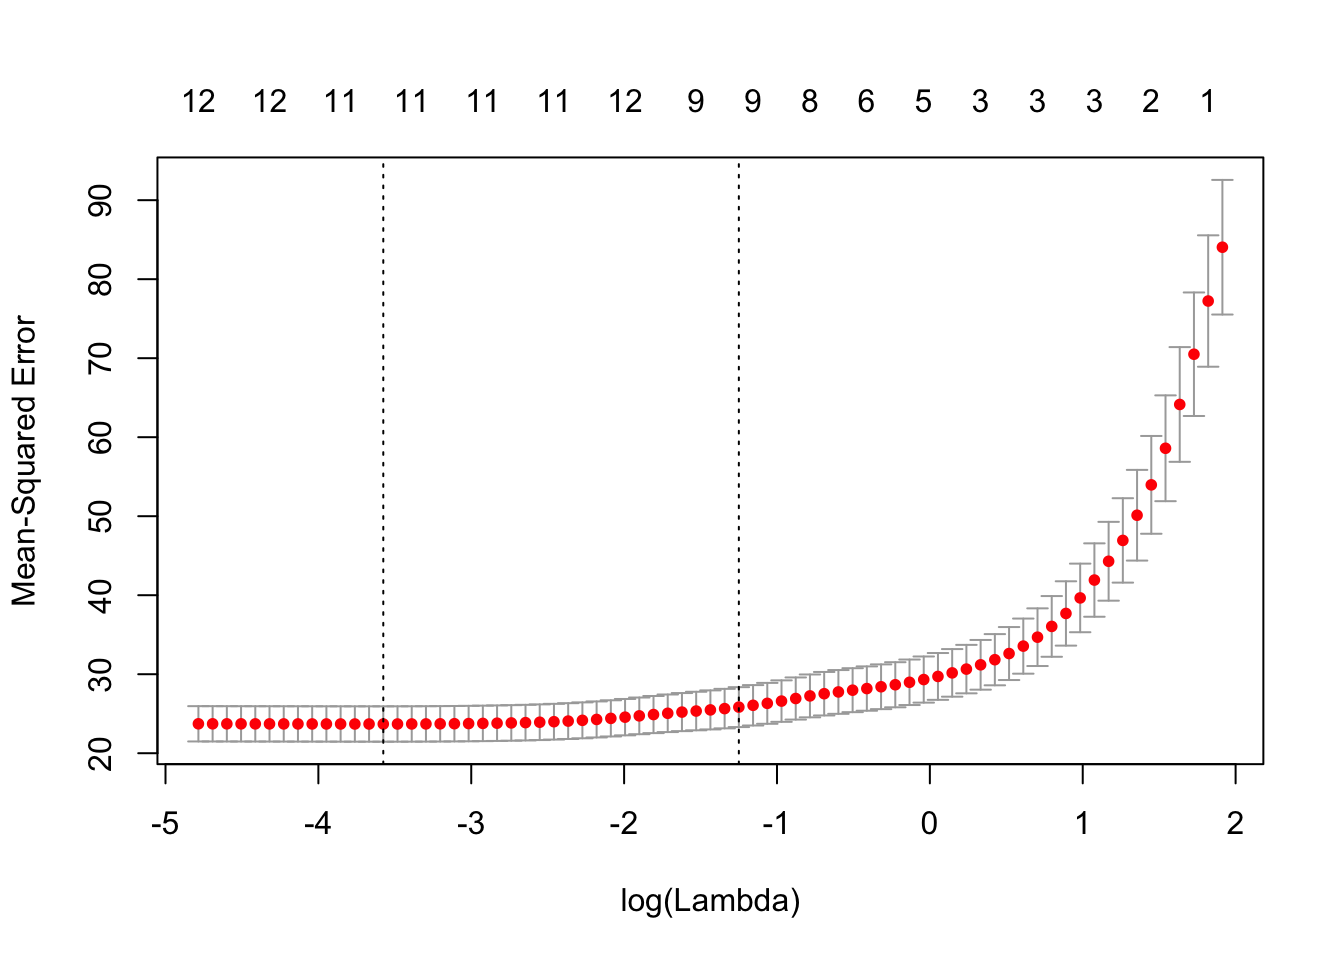
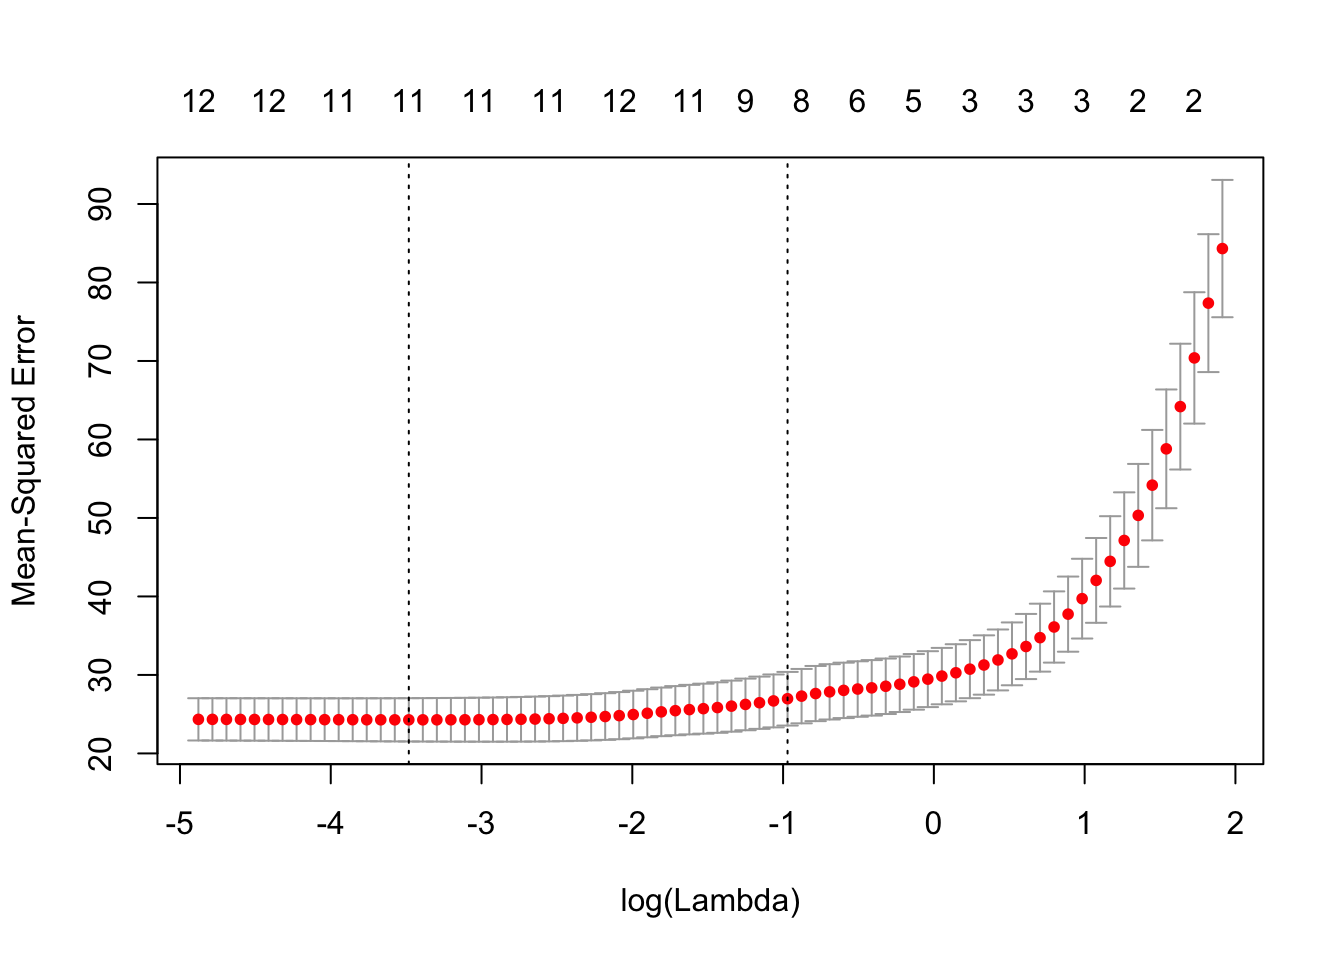
Corrected typo

diff --git a/public/post/lasso-in-12-languages/index.html b/public/post/lasso-in-12-languages/index.html
@@ -407,23 +407,23 @@ fit &lt;- cv.glmnet(medv ~ ., data = Boston)</code></pre>
 <pre class="r"><code>coef(fit, s = &quot;lambda.1se&quot;)</code></pre>
 <pre><code>## 14 x 1 sparse Matrix of class &quot;dgCMatrix&quot;
 ##                        1
-## (Intercept) 20.443234513
-## crim        -0.029579467
-## zn           0.005117086
+## (Intercept) 17.471486255
+## crim        -0.021826808
+## zn           .          
 ## indus        .          
-## chas         2.168428935
-## nox         -6.478368167
-## rm           4.261458164
+## chas         1.897718334
+## nox         -3.341293682
+## rm           4.266279454
 ## age          .          
-## dis         -0.553162685
+## dis         -0.317122207
 ## rad          .          
 ## tax          .          
-## ptratio     -0.813351925
-## black        0.006958142
-## lstat       -0.519363373</code></pre>
+## ptratio     -0.787265491
+## black        0.006558204
+## lstat       -0.518129464</code></pre>
 <p>In addition, we can find the cross-validation estimate of the mean squared error:</p>
 <pre class="r"><code>fit$cvm[fit$lambda == fit$lambda.1se]</code></pre>
-<pre><code>## [1] 25.83565</code></pre>
+<pre><code>## [1] 26.96739</code></pre>
 <p>These are the values I will try to reproduce by actually implementing the lasso in twelve different languages.</p>
 </div>
 <div id="steps-involved-in-computing-the-lasso" class="section level2">
@@ -469,7 +469,7 @@ until convergence, where <span class="math inline">\(S(\cdot, \cdot)\)</span> is
 <li><a href="https://www.r-project.org/">R</a></li>
 <li><a href="https://www.scala-lang.org/">Scala</a> (the main language used in Apache Spark, so it must me good to know, right?)</li>
 </ul>
-<p>I will right one blogpost for each, detailing the solution. The number twelwe was chosen for reasons related to the number of full moons occuring between each time the earth circles around the sun, so the absolute deadline for finishing everything is on the 31st December 2019.</p>
+<p>I will write one blogpost for each, detailing the solution. The number twelwe was chosen for reasons related to the number of full moons occuring between each time the earth circles around the sun, so the absolute deadline for finishing everything is on the 31st December 2019.</p>
 </div>
 
     </div>

diff --git a/content/post/2018-12-28-lasso-in-twelve-languages.html b/content/post/2018-12-28-lasso-in-twelve-languages.html
@@ -35,23 +35,23 @@ fit &lt;- cv.glmnet(medv ~ ., data = Boston)</code></pre>
 <pre class="r"><code>coef(fit, s = &quot;lambda.1se&quot;)</code></pre>
 <pre><code>## 14 x 1 sparse Matrix of class &quot;dgCMatrix&quot;
 ##                        1
-## (Intercept) 20.443234513
-## crim        -0.029579467
-## zn           0.005117086
+## (Intercept) 17.471486255
+## crim        -0.021826808
+## zn           .          
 ## indus        .          
-## chas         2.168428935
-## nox         -6.478368167
-## rm           4.261458164
+## chas         1.897718334
+## nox         -3.341293682
+## rm           4.266279454
 ## age          .          
-## dis         -0.553162685
+## dis         -0.317122207
 ## rad          .          
 ## tax          .          
-## ptratio     -0.813351925
-## black        0.006958142
-## lstat       -0.519363373</code></pre>
+## ptratio     -0.787265491
+## black        0.006558204
+## lstat       -0.518129464</code></pre>
 <p>In addition, we can find the cross-validation estimate of the mean squared error:</p>
 <pre class="r"><code>fit$cvm[fit$lambda == fit$lambda.1se]</code></pre>
-<pre><code>## [1] 25.83565</code></pre>
+<pre><code>## [1] 26.96739</code></pre>
 <p>These are the values I will try to reproduce by actually implementing the lasso in twelve different languages.</p>
 </div>
 <div id="steps-involved-in-computing-the-lasso" class="section level2">
@@ -97,5 +97,5 @@ until convergence, where <span class="math inline">\(S(\cdot, \cdot)\)</span> is
 <li><a href="https://www.r-project.org/">R</a></li>
 <li><a href="https://www.scala-lang.org/">Scala</a> (the main language used in Apache Spark, so it must me good to know, right?)</li>
 </ul>
-<p>I will right one blogpost for each, detailing the solution. The number twelwe was chosen for reasons related to the number of full moons occuring between each time the earth circles around the sun, so the absolute deadline for finishing everything is on the 31st December 2019.</p>
+<p>I will write one blogpost for each, detailing the solution. The number twelwe was chosen for reasons related to the number of full moons occuring between each time the earth circles around the sun, so the absolute deadline for finishing everything is on the 31st December 2019.</p>
 </div>
